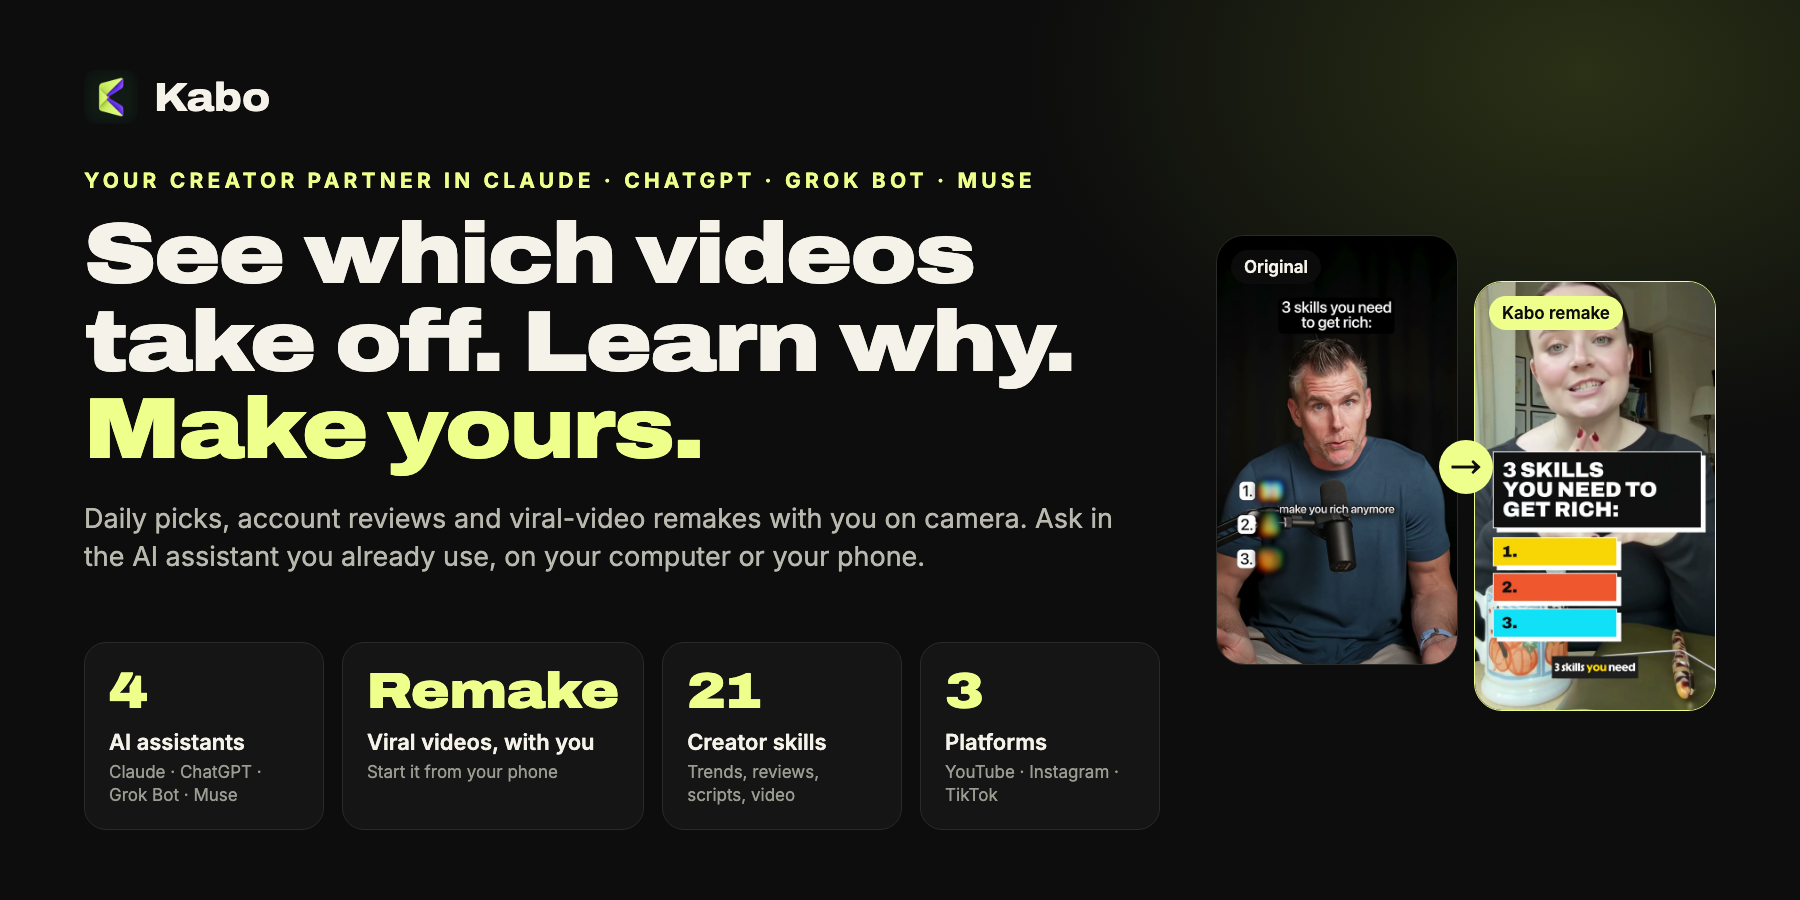
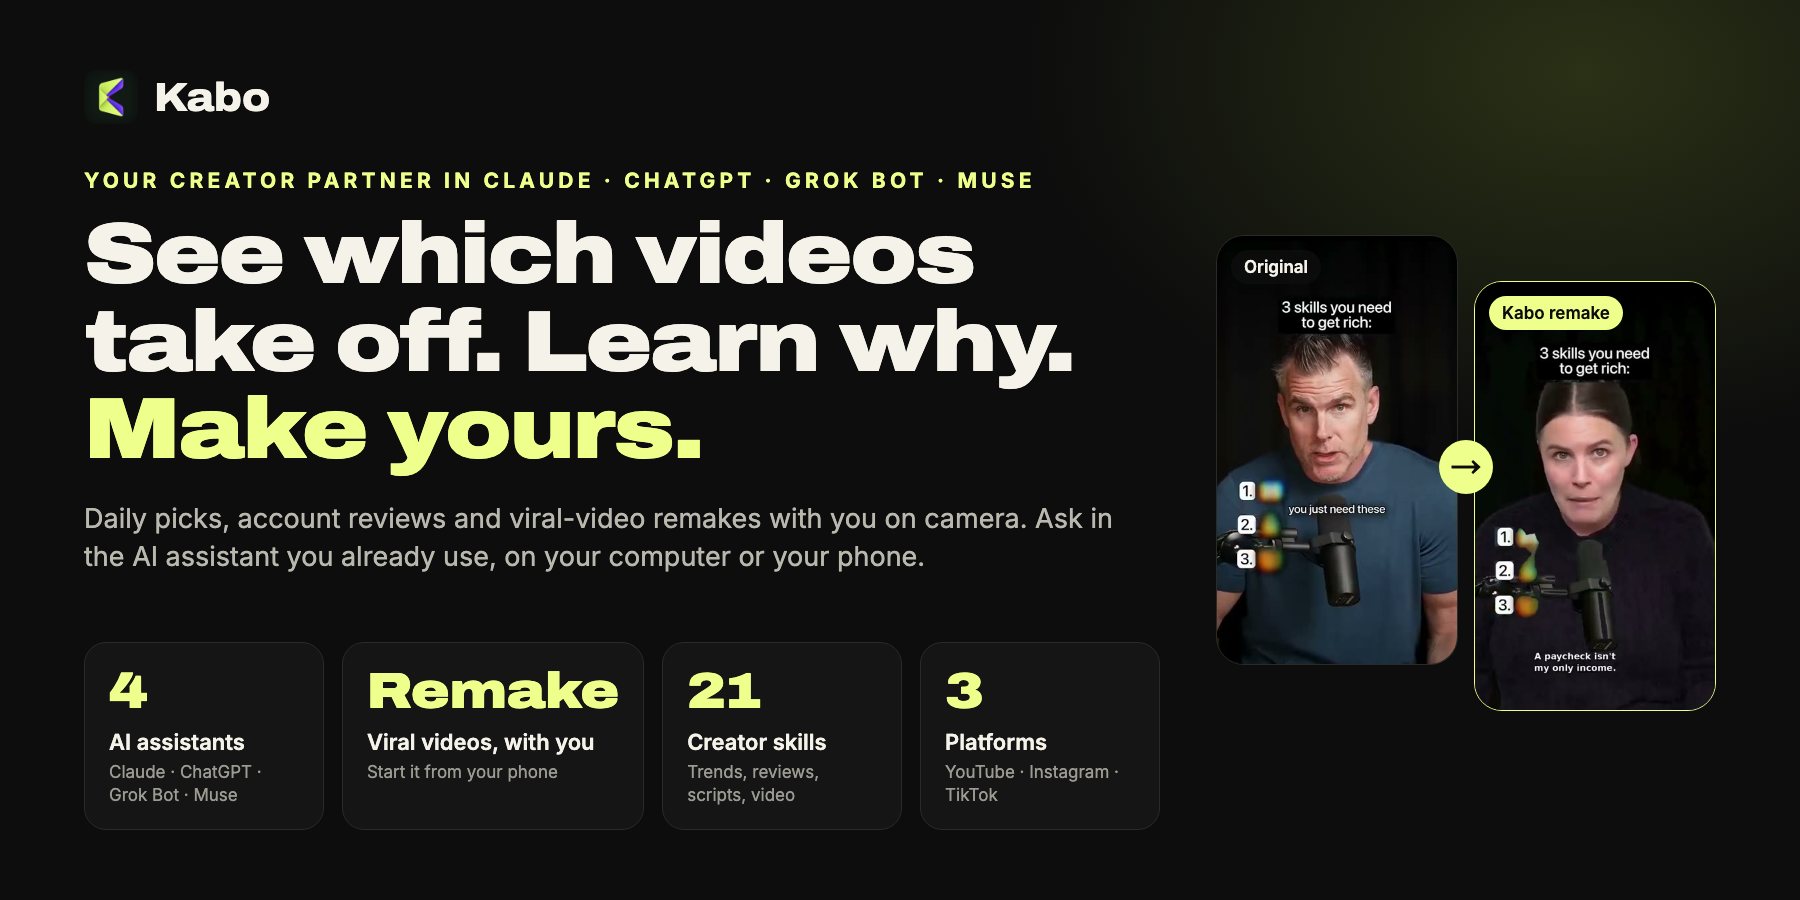
docs(readme): use the latest remake pair from the kabo.sh hero
The hero animation, the still hero and the before/after image now use the newer
original and remake clips from the kabo.sh home hero, where the framing, title, list
and microphone match on both sides.

Changed region(s): [[0.6533, 0.3111, 0.9644, 0.8089]]

diff --git a/docs/i18n/README.pt-BR.md b/docs/i18n/README.pt-BR.md
@@ -63,7 +63,7 @@ Install Kabo by following https://github.com/kabo-sh/kabo-mcp-plugin/blob/stable
 
 <p align="center">
   <a href="https://kabo.sh/?utm_source=github&utm_medium=referral&utm_campaign=202611_mcp_plugin_readme&utm_content=readme_remake">
-    <img src="../readme/remake-before-after.png" alt="Refaça um vídeo viral. À esquerda: o vídeo original de uma pessoa falando para a câmera. À direita: o remake do Kabo com outro criador na câmera, a mesma estrutura em três pontos e novos títulos na tela. Passos: envie um link, o Kabo analisa o vídeo e escreve o rascunho do seu roteiro, você aprova o modelo e a estimativa, o Kabo entrega um MP4 vertical pronto." width="100%" />
+    <img src="../readme/remake-before-after.png" alt="Refaça um vídeo viral. À esquerda: o vídeo original de uma pessoa falando para a câmera. À direita: o remake do Kabo com outro criador na câmera, e o mesmo enquadramento, título, lista e microfone. Passos: envie um link, o Kabo analisa o vídeo e escreve o rascunho do seu roteiro, você aprova o modelo e a estimativa, o Kabo entrega um MP4 vertical pronto." width="100%" />
   </a>
 </p>
 

diff --git a/docs/i18n/README.es.md b/docs/i18n/README.es.md
@@ -63,7 +63,7 @@ Install Kabo by following https://github.com/kabo-sh/kabo-mcp-plugin/blob/stable
 
 <p align="center">
   <a href="https://kabo.sh/?utm_source=github&utm_medium=referral&utm_campaign=202611_mcp_plugin_readme&utm_content=readme_remake">
-    <img src="../readme/remake-before-after.png" alt="Recrea un video viral. Izquierda: el video original de una persona hablando a cámara. Derecha: el remake de Kabo con otro creador frente a la cámara, la misma estructura de tres puntos y nuevos títulos en pantalla. Pasos: envías un enlace, Kabo lo desglosa y redacta tu guion, tú apruebas el modelo y la estimación, Kabo entrega un MP4 vertical terminado." width="100%" />
+    <img src="../readme/remake-before-after.png" alt="Recrea un video viral. Izquierda: el video original de una persona hablando a cámara. Derecha: el remake de Kabo con otro creador frente a la cámara, y el mismo encuadre, título, lista y micrófono. Pasos: envías un enlace, Kabo lo desglosa y redacta tu guion, tú apruebas el modelo y la estimación, Kabo entrega un MP4 vertical terminado." width="100%" />
   </a>
 </p>
 

diff --git a/README.md b/README.md
@@ -61,7 +61,7 @@ Install Kabo by following https://github.com/kabo-sh/kabo-mcp-plugin/blob/stable
 
 <p align="center">
   <a href="https://kabo.sh/?utm_source=github&utm_medium=referral&utm_campaign=202611_mcp_plugin_readme&utm_content=readme_remake">
-    <img src="docs/readme/remake-before-after.png" alt="Remake a viral video. Left: the original talking-head video. Right: the Kabo remake with a different creator on camera, the same three-point structure and new on-screen titles. Steps: send a link, Kabo breaks it down and drafts your script, you approve the model and the estimate, Kabo delivers a finished vertical MP4." width="100%" />
+    <img src="docs/readme/remake-before-after.png" alt="Remake a viral video. Left: the original talking-head video. Right: the Kabo remake with a different creator on camera, and the same framing, title, list and microphone. Steps: send a link, Kabo breaks it down and drafts your script, you approve the model and the estimate, Kabo delivers a finished vertical MP4." width="100%" />
   </a>
 </p>
 

diff --git a/docs/i18n/README.zh-CN.md b/docs/i18n/README.zh-CN.md
@@ -62,7 +62,7 @@ Install Kabo by following https://github.com/kabo-sh/kabo-mcp-plugin/blob/stable
 
 <p align="center">
   <a href="https://kabo.sh/?utm_source=github&utm_medium=referral&utm_campaign=202611_mcp_plugin_readme&utm_content=readme_remake">
-    <img src="../readme/remake-before-after.png" alt="翻拍一条爆款视频。左边：原版口播视频。右边：Kabo 翻拍版，换了另一位创作者出镜，保持同样的三点结构，配上新的屏幕标题。步骤：发送链接，Kabo 拆解视频并起草你的脚本，你确认模型和费用估算，Kabo 交付一条做好的竖屏 MP4。" width="100%" />
+    <img src="../readme/remake-before-after.png" alt="翻拍一条爆款视频。左边：原版口播视频。右边：Kabo 翻拍版，换了另一位创作者出镜，镜头、标题、清单和麦克风都和原版对得上。步骤：发送链接，Kabo 拆解视频并起草你的脚本，你确认模型和费用估算，Kabo 交付一条做好的竖屏 MP4。" width="100%" />
   </a>
 </p>
 
